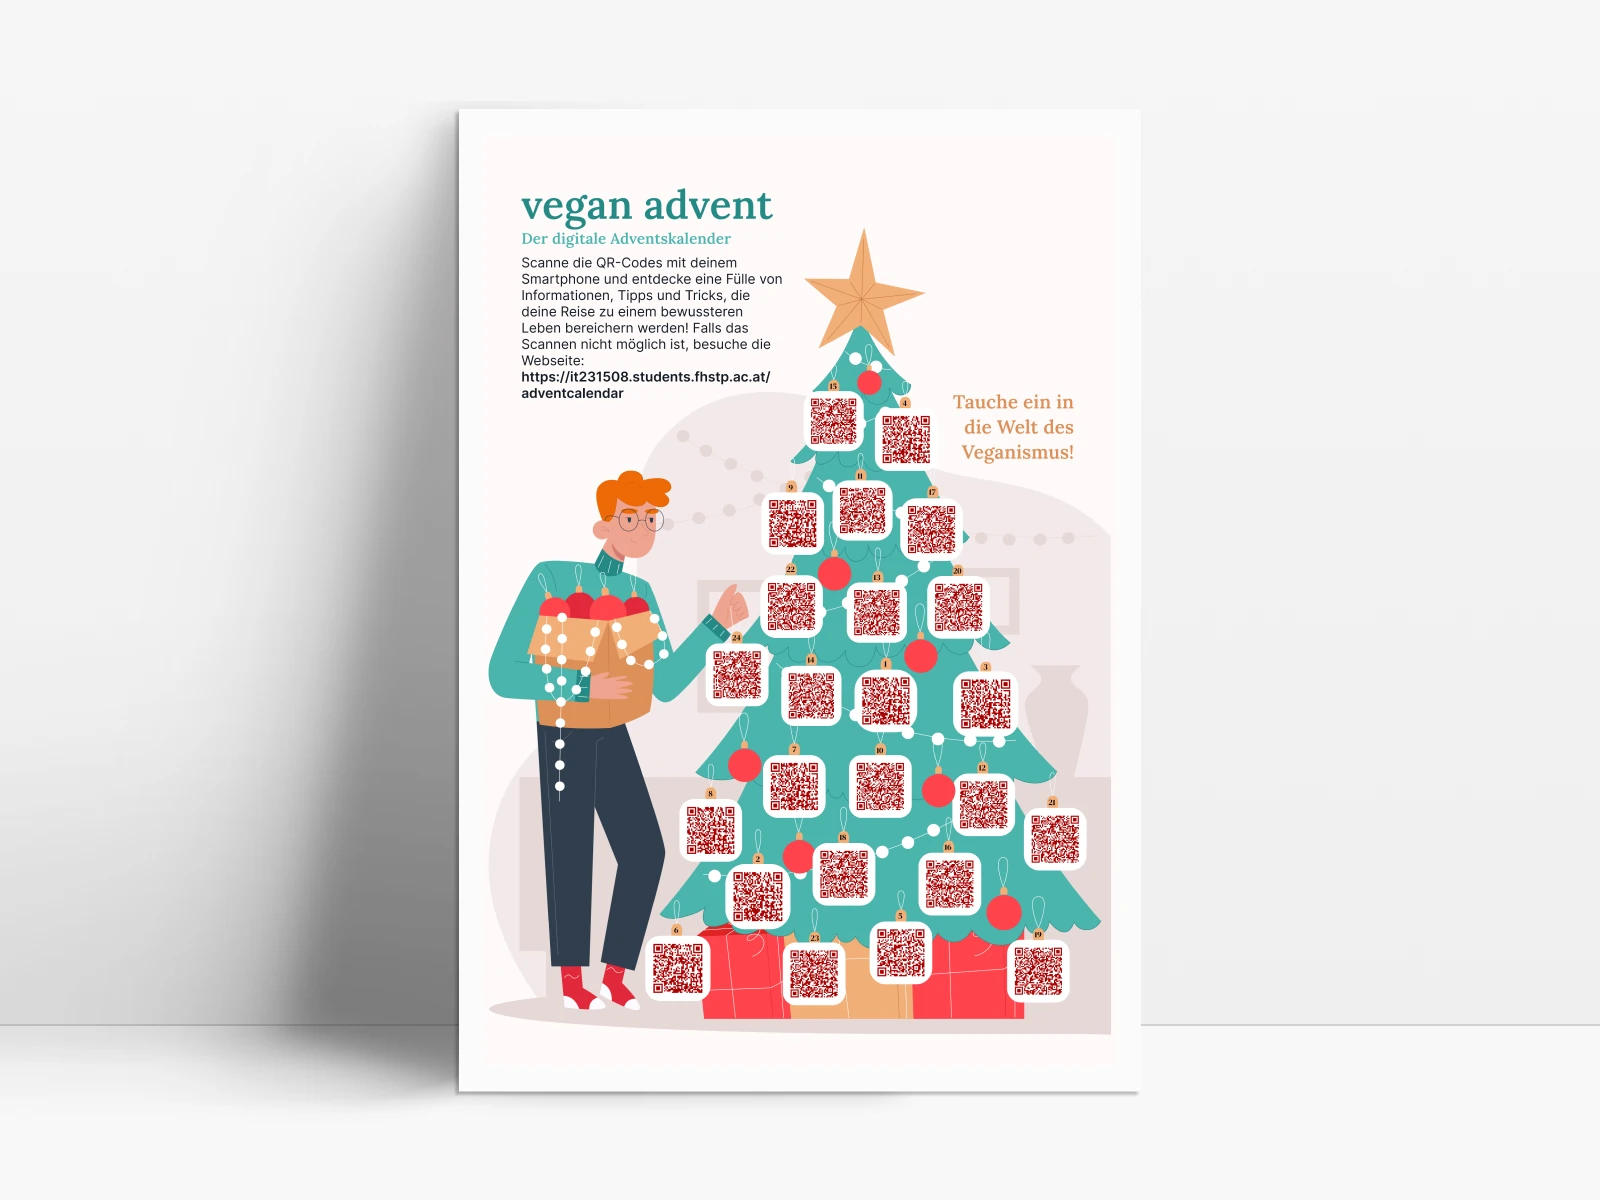
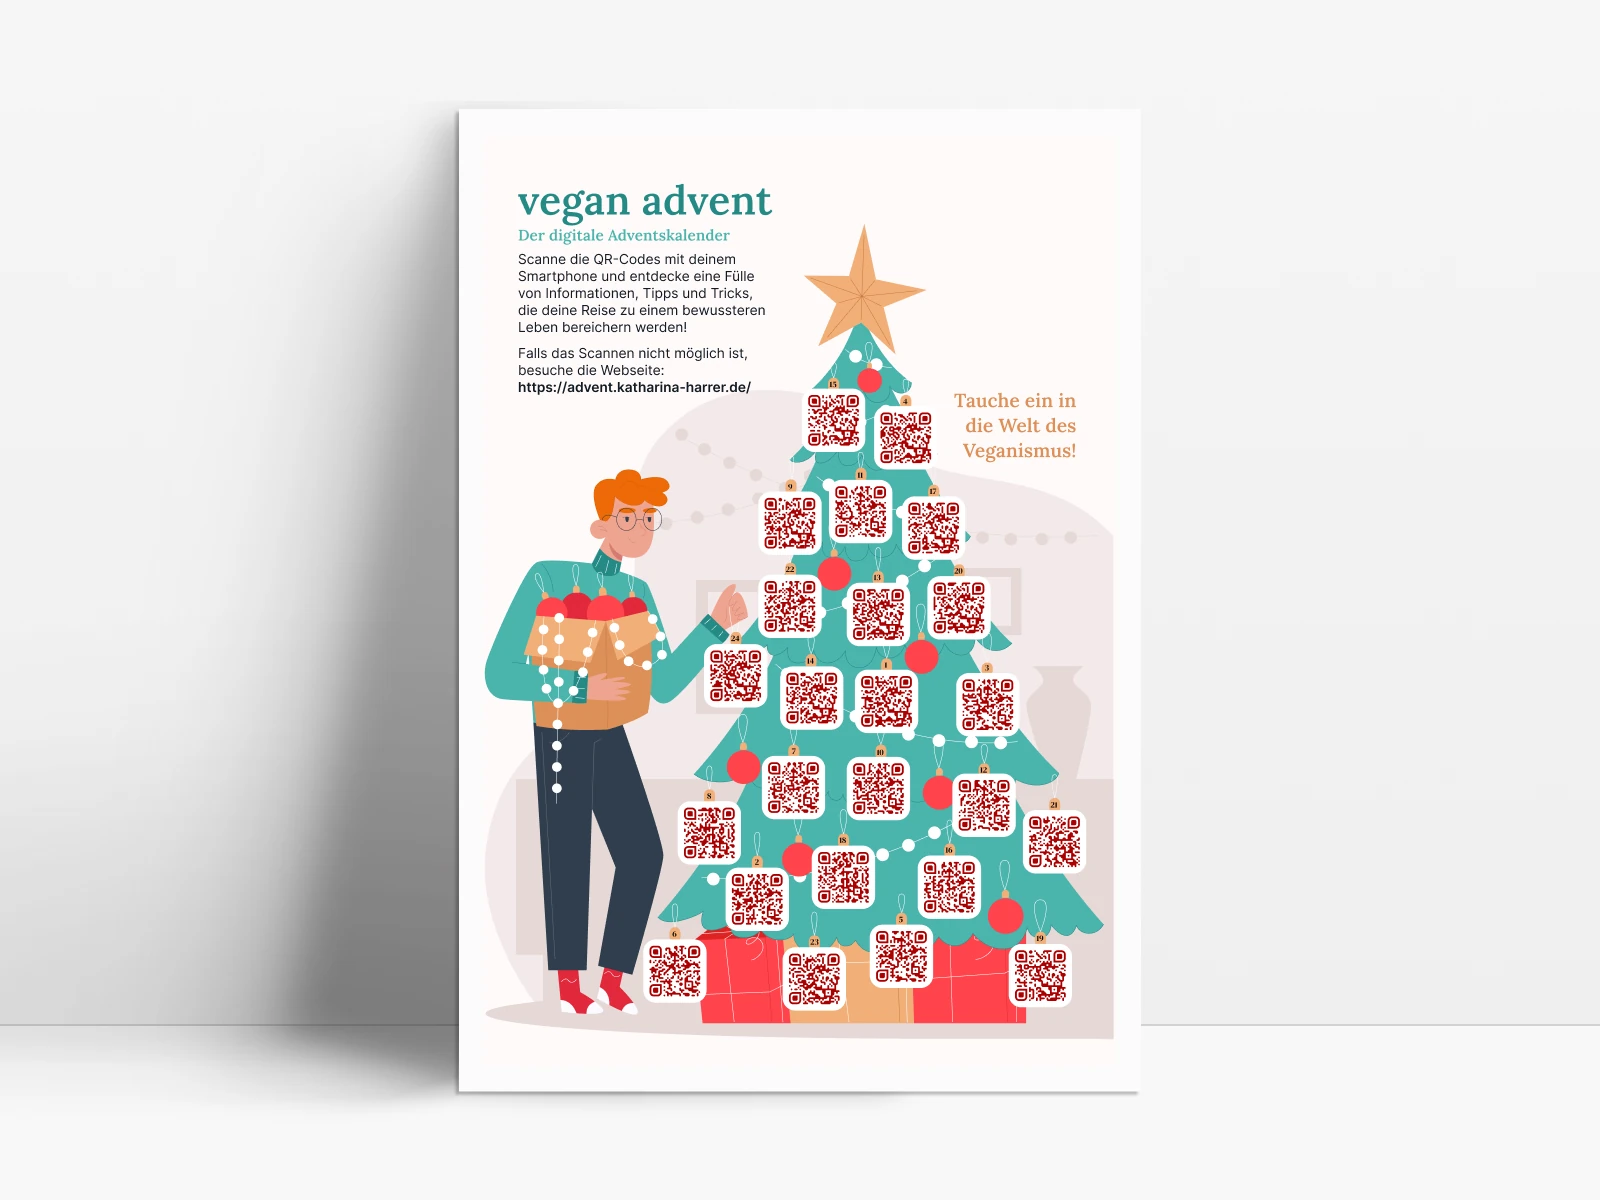
feat: add vegan adventcalendar content

Changed region(s): [[0.3125, 0.2158, 0.6875, 0.8633], [0.3125, 0.1542, 0.5, 0.3392]]

diff --git a/lib/data.ts b/lib/data.ts
@@ -45,8 +45,10 @@ import advent from "@/public/veganAdvent/advent-light.webp";
 import adventDark from "@/public/veganAdvent/advent-dark.webp";
 import veganAdvent from "@/public/veganAdvent/veganAdvent-app-mockup.webp";
 import veganAdventAppMockup from "@/public/veganAdvent/veganAdvent-mockup.webp";
+import veganAdventMotivation from "@/public/veganAdvent/veganAdvent-motivation.webp";
 import veganAdventPoster from "@/public/veganAdvent/veganAdvent-poster.webp";
 import veganAdventApp from "@/public/veganAdvent/veganAdvent-app.webp";
+import veganAdventMockups from "@/public/veganAdvent/veganAdvent-mockups.webp";
 
 import trilum from "@/public/trilum/trilum-orders-overview.webp";
 import trilumOrders from "@/public/trilum/trilum-overview.webp";
@@ -146,7 +148,7 @@ export const getProjectsData = (theme: string, t: (key: string) => string) => {
           text: [t("weidlich.project.text.0"),t("weidlich.project.text.1")],
           image: weidlichSmartphoneMockup,
           cta: {
-            title: "Website ansehen",
+            title: t("weidlich.project.cta"),
             link: "https://dr-dietmar-weidlich.de"
           }
         },
@@ -403,22 +405,27 @@ export const getProjectsData = (theme: string, t: (key: string) => string) => {
       type: t("veganAdvent.type"),
       duration: t("veganAdvent.duration"),
       description: t("veganAdvent.description"),
-      tags: ["React", "Tailwind"],
+      tags: ["React", "Tailwind CSS"],
       image: theme === "light" ? advent : adventDark,
       sectionImage: veganAdvent,
       sections: [
         {
-          title: t("veganAdvent.project.title"),
-          text: [t("veganAdvent.project.text.0")],
+          title: t("veganAdvent.background.title"),
+          text: [t("veganAdvent.background.text.0"), t("veganAdvent.background.text.1")],
           image: veganAdventAppMockup,
           cta: {
-            title: t("veganAdvent.project.cta"),
-            link: "https://it231508.students.fhstp.ac.at/adventcalendar"
+            title: t("veganAdvent.background.cta"),
+            link: "https://advent.katharina-harrer.de/"
           }
         },
         {
+          title: t("veganAdvent.project.title"),
+          text: [t("veganAdvent.project.text.0"), t("veganAdvent.project.text.1")],
+          image: veganAdventMotivation,
+        },
+        {
           title: t("veganAdvent.poster.title"),
-          text: [t("veganAdvent.poster.text.0")],
+          text: [t("veganAdvent.poster.text.0"), t("veganAdvent.poster.text.1")],
           image: veganAdventPoster,
           cta: {
             title: t("veganAdvent.poster.cta"),
@@ -431,8 +438,13 @@ export const getProjectsData = (theme: string, t: (key: string) => string) => {
           image: veganAdventApp,
           cta: {
             title: t("veganAdvent.implementation.cta"),
-            link: "https://github.com/katharina-harrer/advent-calendar"
+            link: "https://github.com/harrer-katharina/advent-calendar"
           }
+        },
+        {
+          title: t("veganAdvent.challenges.title"),
+          text: [t("veganAdvent.challenges.text.0"), t("veganAdvent.challenges.text.1")],
+          image: veganAdventMockups,
         },
       ],
     },
@@ -517,7 +529,7 @@ export const skillsData = [
   "Figma",
   "HTML",
   "CSS",
-  "Tailwind",
+  "Tailwind CSS",
   "JavaScript",
   "TypeScript",
   "React",
